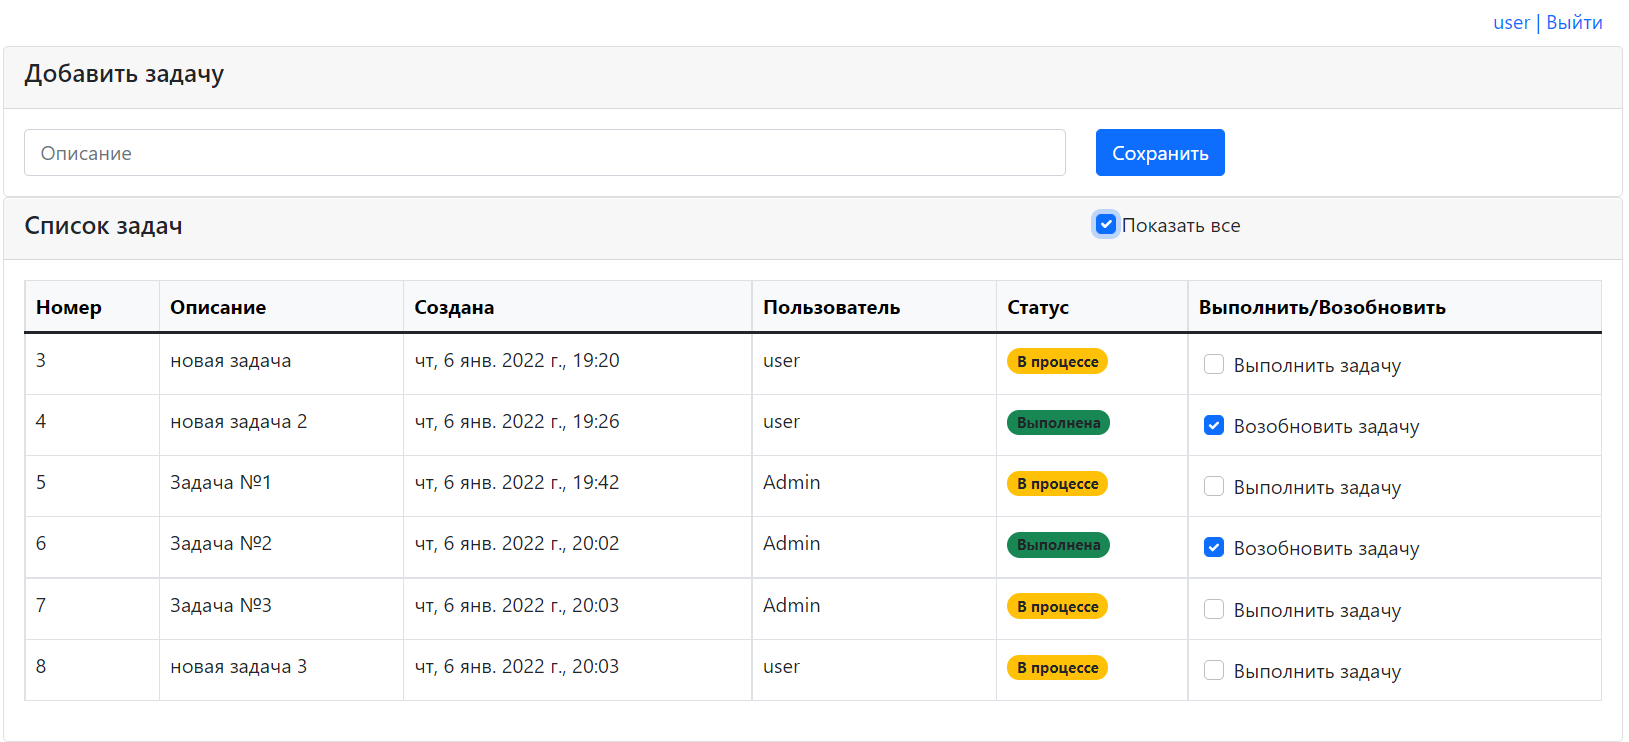
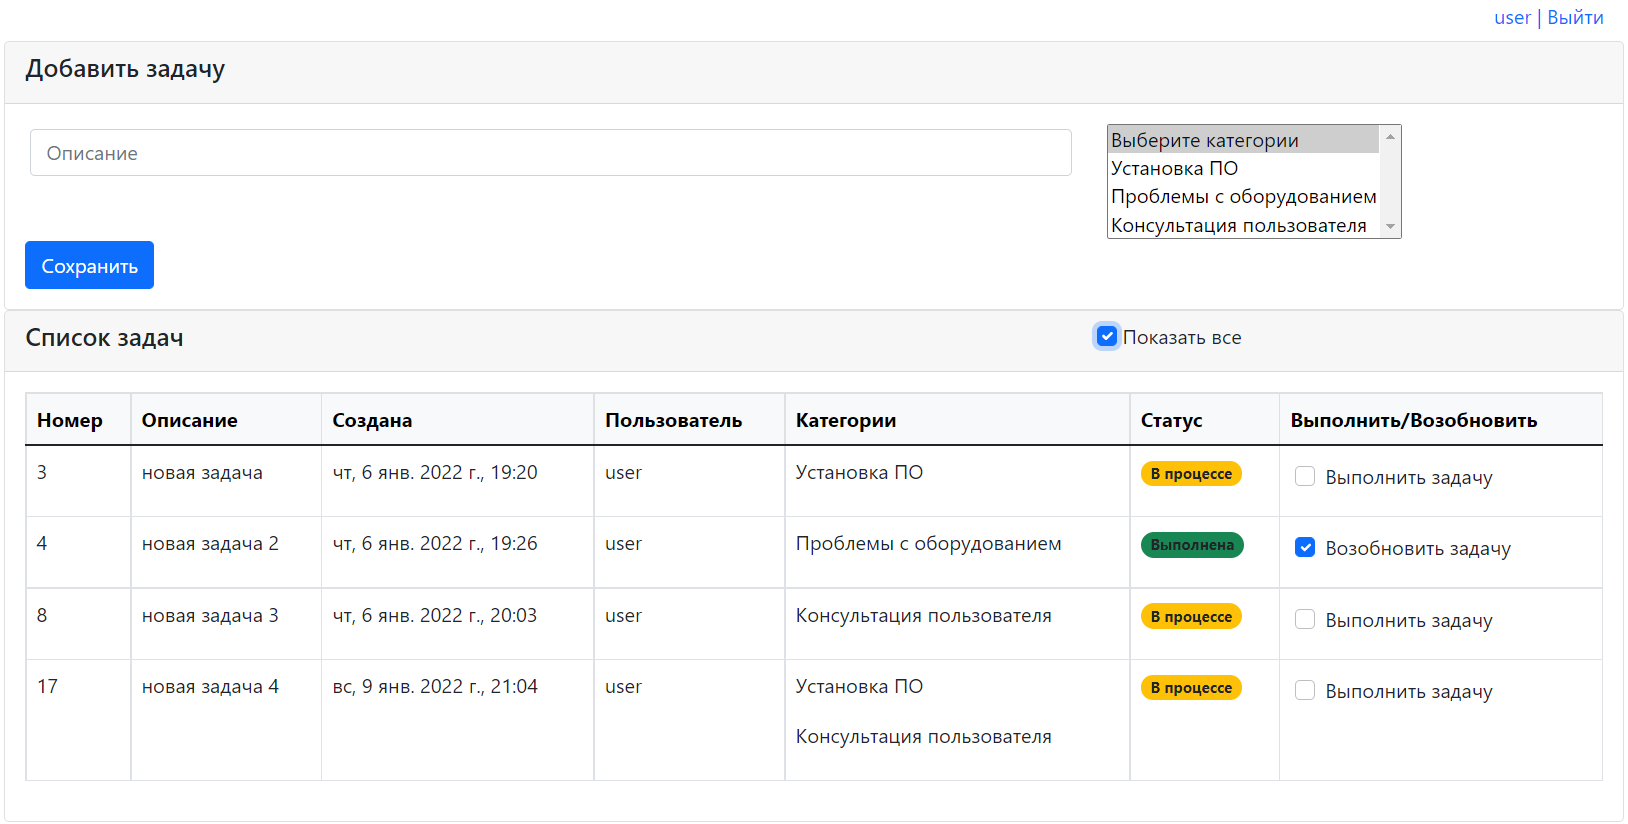
4. Категории в TODO List [#331991]

diff --git a/src/main/webapp/js/index.js b/src/main/webapp/js/index.js
@@ -1,10 +1,31 @@
 function validate() {
     const description = $('#descriptionInput').val();
+    const catName = $('#catSelect').val();
+    let alertMessage = "";
+    if (catName[0] === "Выберите категории") {
+        alertMessage = "Необходимо выбрать хотя бы одну категорию\n";
+    }
     if (description === "") {
-        alert("Заполните описание задачи");
+        alertMessage += "Заполните описание задачи";
+    }
+    if (alertMessage !== "") {
+        alert(alertMessage);
         return false;
     }
     return true;
+}
+function getCategories() {
+    $(document).ready(function () {
+        $.ajax({
+            type: 'GET',
+            url: context + '/category',
+            dataType: 'json'
+        }).done(function (data) {
+            for (let category of data) {
+                $('#catSelect option:last').after(`<option value=${category.id}>${category.name}</option>`)
+            }
+        })
+    });
 }
 function sleep(ms) {
     return new Promise(resolve => setTimeout(resolve, ms));
@@ -49,6 +70,7 @@ function drawTable() {
             let td4 = document.createElement("td");
             let td5 = document.createElement("td");
             let td6 = document.createElement("td");
+            let td7 = document.createElement("td");
             td1.innerText = task.id;
             td2.innerText = task.description;
             const date = new Date(task.created);
@@ -56,9 +78,14 @@ function drawTable() {
                 hour: 'numeric', minute: 'numeric'};
             td3.innerText = date.toLocaleDateString("ru-RU", options);
             td4.innerText = task.user.name;
-            td5.innerHTML = '<span class="badge rounded-pill bg-warning text-dark">В процессе</span>';
+            let categoriesHTML = "";
+            for (let i = 0; i < task.categories.length; i++) {
+                categoriesHTML += '<p>' + task.categories[i].name + '</p>';
+            }
+            td5.innerHTML = categoriesHTML;
+            td6.innerHTML = '<span class="badge rounded-pill bg-warning text-dark">В процессе</span>';
             if (task.done === true) {
-                td5.innerHTML = '<span class="badge rounded-pill bg-success text-dark">Выполнена</span>';
+                td6.innerHTML = '<span class="badge rounded-pill bg-success text-dark">Выполнена</span>';
             }
             let input = document.createElement("input");
             input.type = "checkbox";
@@ -73,17 +100,20 @@ function drawTable() {
                 input.checked = true;
                 label.innerText = "Возобновить задачу";
             }
-            td6.append(input);
-            td6.append(label);
+            td7.append(input);
+            td7.append(label);
             tr.append(td1);
             tr.append(td2);
             tr.append(td3);
             tr.append(td4);
             tr.append(td5);
             tr.append(td6);
+            tr.append(td7);
             tbody.append(tr);
         }
     })
 }
 drawTable();
 setInterval(drawTable, 30000);
+getCategories();
+

diff --git a/src/main/java/ru/job4j/todo/persistence/Persistence.java b/src/main/java/ru/job4j/todo/persistence/Persistence.java
@@ -6,6 +6,7 @@ import org.hibernate.Transaction;
 import org.hibernate.boot.MetadataSources;
 import org.hibernate.boot.registry.StandardServiceRegistry;
 import org.hibernate.boot.registry.StandardServiceRegistryBuilder;
+import ru.job4j.todo.model.Category;
 import ru.job4j.todo.model.Item;
 import ru.job4j.todo.model.User;
 
@@ -13,7 +14,7 @@ import javax.persistence.NoResultException;
 import java.util.List;
 import java.util.function.Function;
 
-public class Persistence {
+public class Persistence implements AutoCloseable {
     private final StandardServiceRegistry registry = new StandardServiceRegistryBuilder().configure().build();
     private final SessionFactory sf = new MetadataSources(registry).buildMetadata().buildSessionFactory();
 
@@ -31,12 +32,20 @@ public class Persistence {
         tx(session -> session.save(user));
     }
 
-    public void save(Item item) {
-        tx(session -> session.save(item));
+    public void save(Item item, String[] catIds) {
+        Session session = sf.openSession();
+        session.beginTransaction();
+        for (String el : catIds) {
+            Category category = session.find(Category.class, Integer.parseInt(el));
+            item.addCategory(category);
+        }
+        session.save(item);
+        session.getTransaction().commit();
+        session.close();
     }
 
-    public List<Item> showAll() {
-        return tx(session -> session.createQuery("from ru.job4j.todo.model.Item").list());
+    public List<Item> showAllItems() {
+        return tx(session -> session.createQuery("select distinct i from Item i join fetch i.categories").list());
     }
 
     public void modifyDone(int id) {
@@ -67,6 +76,10 @@ public class Persistence {
         return user;
     }
 
+    public List<Category> showAllCategories() {
+        return tx(session -> session.createQuery("from ru.job4j.todo.model.Category").list());
+    }
+
     private <T> T tx(Function<Session, T> command) {
         Session session = sf.openSession();
         try (session) {
@@ -78,5 +91,10 @@ public class Persistence {
             session.getTransaction().rollback();
             throw e;
         }
+    }
+
+    @Override
+    public void close() {
+        sf.close();
     }
 }

diff --git a/src/main/java/ru/job4j/todo/servlet/CategoryServlet.java b/src/main/java/ru/job4j/todo/servlet/CategoryServlet.java
@@ -1,7 +1,8 @@
 package ru.job4j.todo.servlet;
 
-import org.json.JSONArray;
-import ru.job4j.todo.model.Item;
+import com.google.gson.Gson;
+import com.google.gson.GsonBuilder;
+import ru.job4j.todo.model.Category;
 import ru.job4j.todo.persistence.Persistence;
 
 import javax.servlet.http.HttpServlet;
@@ -12,18 +13,15 @@ import java.io.OutputStream;
 import java.nio.charset.StandardCharsets;
 import java.util.List;
 
-public class ShowAllTasksServlet extends HttpServlet {
-
+public class CategoryServlet extends HttpServlet {
+    private static final Gson GSON = new GsonBuilder().create();
     @Override
     protected void doGet(HttpServletRequest req, HttpServletResponse resp) throws IOException {
-        List<Item> items = Persistence.getInstance().showAllItems();
-        items.forEach(i -> i.getUser().setPassword(""));
-        JSONArray json = new JSONArray(items);
-        String str = json.toString();
-        req.setAttribute("items", items);
-        resp.setContentType("application/json");
+        List<Category> categories = Persistence.getInstance().showAllCategories();
+        String json = GSON.toJson(categories);
         OutputStream out = resp.getOutputStream();
-        out.write(str.getBytes(StandardCharsets.UTF_8));
+        resp.setContentType("application/json; charset=utf-8");
+        out.write(json.getBytes(StandardCharsets.UTF_8));
         out.flush();
         out.close();
     }

diff --git a/src/main/java/ru/job4j/todo/model/Category.java b/src/main/java/ru/job4j/todo/model/Category.java
@@ -1,0 +1,61 @@
+package ru.job4j.todo.model;
+
+import javax.persistence.*;
+import java.util.Objects;
+
+@Entity
+@Table(name = "category")
+public class Category {
+    @Id
+    @GeneratedValue(strategy = GenerationType.SEQUENCE)
+    private Integer id;
+
+    private String name;
+
+    public static Category of(String name) {
+        Category category = new Category();
+        category.name = name;
+        return category;
+    }
+
+    public Integer getId() {
+        return id;
+    }
+
+    public void setId(Integer id) {
+        this.id = id;
+    }
+
+    public String getName() {
+        return name;
+    }
+
+    public void setName(String name) {
+        this.name = name;
+    }
+
+    @Override
+    public boolean equals(Object o) {
+        if (this == o) {
+            return true;
+        }
+        if (o == null || getClass() != o.getClass()) {
+            return false;
+        }
+        Category category = (Category) o;
+        return Objects.equals(id, category.id) && Objects.equals(name, category.name);
+    }
+
+    @Override
+    public int hashCode() {
+        return Objects.hash(id, name);
+    }
+
+    @Override
+    public String toString() {
+        return "Category{"
+                + "id=" + id
+                + ", name='" + name + '\''
+                + '}';
+    }
+}

diff --git a/src/main/java/ru/job4j/todo/model/Item.java b/src/main/java/ru/job4j/todo/model/Item.java
@@ -3,6 +3,8 @@ package ru.job4j.todo.model;
 import javax.persistence.*;
 import java.time.LocalDateTime;
 import java.time.temporal.ChronoUnit;
+import java.util.HashSet;
+import java.util.Set;
 
 @Entity
 @Table(name = "items")
@@ -13,9 +15,13 @@ public class Item {
     private String description;
     private LocalDateTime created = LocalDateTime.now().truncatedTo(ChronoUnit.SECONDS);
     private boolean done;
+
     @ManyToOne
     @JoinColumn(name = "user_id")
     private User user;
+
+    @ManyToMany(cascade = {CascadeType.PERSIST, CascadeType.MERGE})
+    private Set<Category> categories = new HashSet<>();
 
     public int getId() {
         return id;
@@ -55,6 +61,18 @@ public class Item {
 
     public void setUser(User user) {
         this.user = user;
+    }
+
+    public Set<Category> getCategories() {
+        return categories;
+    }
+
+    public void setCategories(Set<Category> categories) {
+        this.categories = categories;
+    }
+
+    public void addCategory(Category category) {
+        this.categories.add(category);
     }
 
     @Override

diff --git a/src/main/java/ru/job4j/todo/servlet/AddTaskServlet.java b/src/main/java/ru/job4j/todo/servlet/AddTaskServlet.java
@@ -18,7 +18,7 @@ public class AddTaskServlet extends HttpServlet {
         User user = (User) req.getSession().getAttribute("user");
         item.setDescription(req.getParameter("description"));
         item.setUser(user);
-        Persistence.getInstance().save(item);
+        Persistence.getInstance().save(item, req.getParameterValues("catIds"));
         resp.sendRedirect("index.jsp");
     }
 }

diff --git a/src/main/java/ru/job4j/todo/servlet/AuthServlet.java b/src/main/java/ru/job4j/todo/servlet/AuthServlet.java
@@ -1,5 +1,7 @@
 package ru.job4j.todo.servlet;
 
+import org.hibernate.Cache;
+import ru.job4j.todo.model.Category;
 import ru.job4j.todo.model.User;
 import ru.job4j.todo.persistence.Persistence;
 

diff --git a/README.md b/README.md
@@ -2,7 +2,7 @@
 
 It is task tracking application.
 
-User can create task by giving task description.
+User can create task by giving task description and category.
 
 Task status can be changed later by checkbox.
 
